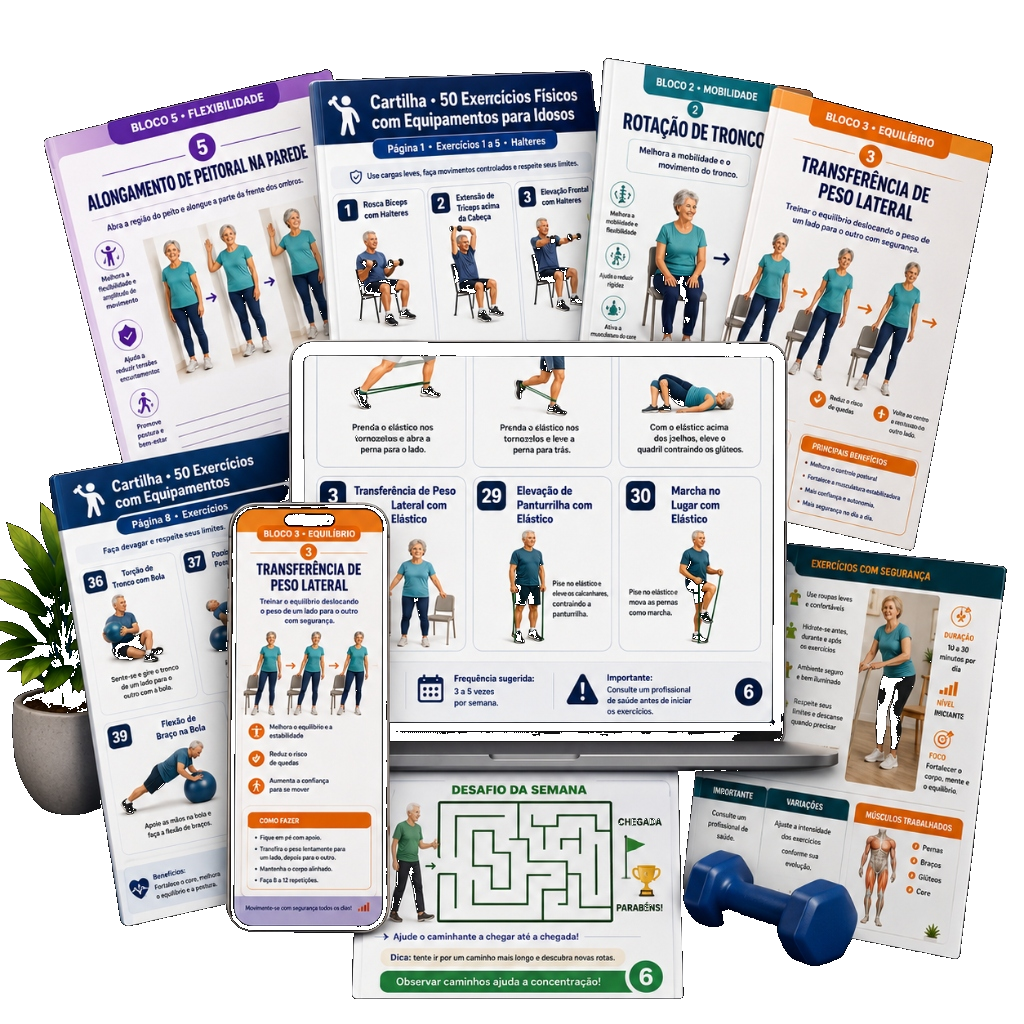
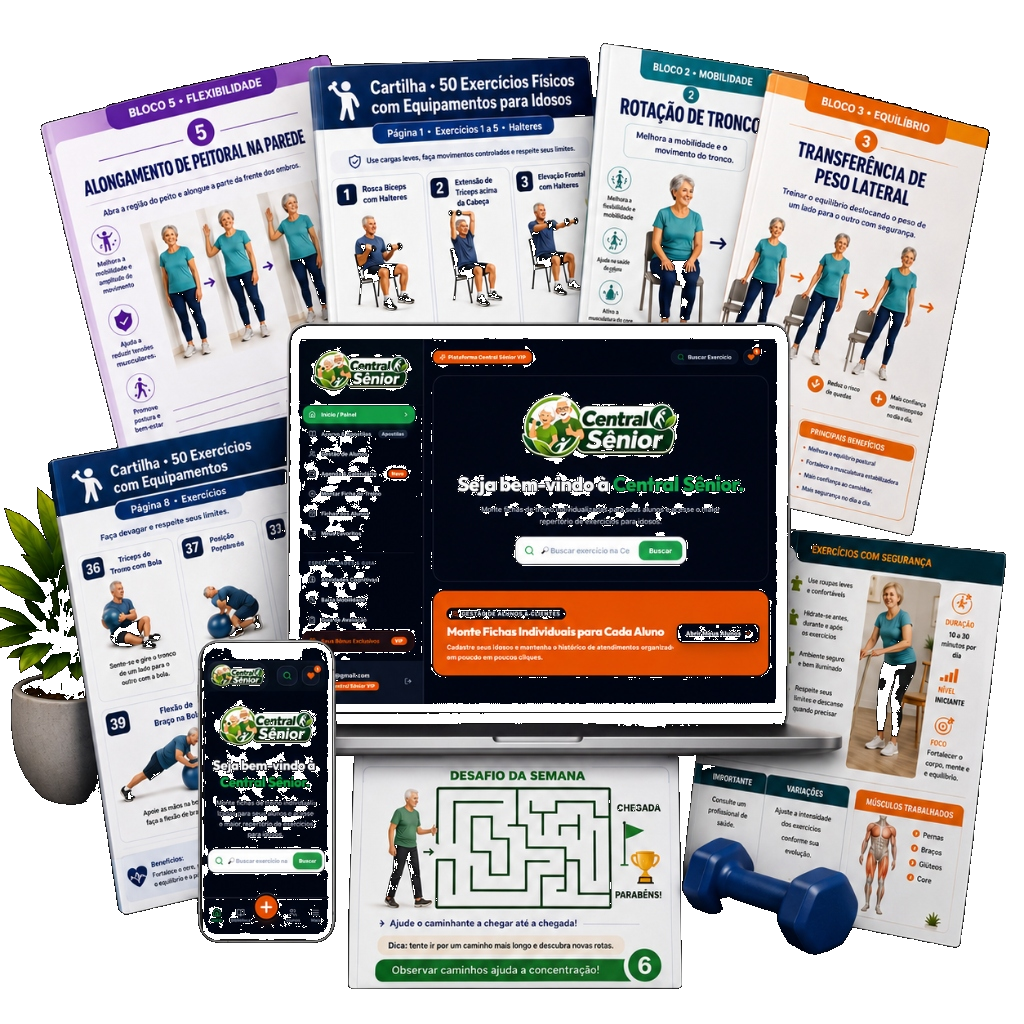
Update desktop left menu header bar and replace Hero and Pricing mockups with new transparent composite image

diff --git a/src/components/HeaderBar.jsx b/src/components/HeaderBar.jsx
@@ -1,4 +1,5 @@
 import React from 'react';
+import { ShoppingCart } from 'lucide-react';
 
 export default function HeaderBar() {
   const today = new Date();
@@ -7,9 +8,64 @@ export default function HeaderBar() {
   const year = today.getFullYear();
   const formattedDate = `${day}/${month}/${year}`;
 
+  const scrollToPricing = (e) => {
+    e.preventDefault();
+    const element = document.getElementById('pricing-cards') || document.getElementById('pricing');
+    if (element) {
+      element.scrollIntoView({ behavior: 'smooth', block: 'center' });
+    }
+  };
+
   return (
-    <div className="bg-red-600 text-white py-2.5 px-4 text-center font-extrabold text-xs sm:text-sm tracking-wide uppercase shadow-md relative z-40 flex items-center justify-center gap-2">
-      <span>Oferta Válida Somente Hoje {formattedDate}</span>
-    </div>
+    <header className="sticky top-0 z-50 bg-white/95 backdrop-blur-md border-b border-slate-200/80 shadow-xs">
+      {/* Top Red Urgency Notification */}
+      <div className="bg-red-600 text-white py-1.5 px-4 text-center font-extrabold text-xs sm:text-sm tracking-wide uppercase shadow-xs">
+        <span>Oferta Válida Somente Hoje {formattedDate}</span>
+      </div>
+
+      {/* Main Navigation Bar */}
+      <div className="max-w-7xl mx-auto px-4 sm:px-6 lg:px-8 h-16 sm:h-20 flex items-center justify-between">
+        
+        {/* Left Side: Desktop Menu Esquerdo (Logo + Status Badge) */}
+        <div className="flex items-center gap-3">
+          <a href="#" className="flex items-center gap-2 group">
+            <img
+              src="/assets/hero-logo-new.png"
+              alt="Central Sênior Logo"
+              className="h-10 sm:h-12 w-auto object-contain drop-shadow-xs group-hover:scale-105 transition-transform duration-300"
+            />
+          </a>
+          <span className="hidden lg:inline-flex items-center gap-1.5 px-3 py-1 rounded-full bg-green-50 border border-green-200 text-green-800 text-xs font-bold">
+            <span className="w-2 h-2 rounded-full bg-green-500 animate-ping"></span>
+            Acesso Online Liberado
+          </span>
+        </div>
+
+        {/* Right Side: Navigation Links & CTA Button */}
+        <div className="flex items-center gap-4 sm:gap-6">
+          <div className="hidden md:flex items-center gap-6 text-xs sm:text-sm font-bold text-slate-700">
+            <a href="#pricing" onClick={scrollToPricing} className="hover:text-green-600 transition-colors">
+              Exercícios
+            </a>
+            <a href="#pricing" onClick={scrollToPricing} className="hover:text-green-600 transition-colors">
+              Bônus
+            </a>
+            <a href="#pricing" onClick={scrollToPricing} className="hover:text-green-600 transition-colors">
+              Garantia
+            </a>
+          </div>
+
+          <a
+            href="#pricing"
+            onClick={scrollToPricing}
+            className="gradient-cta inline-flex items-center justify-center px-4 py-2.5 sm:px-6 sm:py-3 rounded-full text-white font-extrabold text-xs sm:text-sm uppercase tracking-wider shadow-md transition-all active:scale-95 cursor-pointer"
+          >
+            <ShoppingCart className="w-4 h-4 mr-1.5" />
+            <span>Garantir Acesso</span>
+          </a>
+        </div>
+
+      </div>
+    </header>
   );
 }

diff --git a/src/components/Hero.jsx b/src/components/Hero.jsx
@@ -11,15 +11,15 @@ export default function Hero() {
   };
 
   return (
-    <section className="relative px-4 pt-8 pb-16 lg:pt-12 lg:pb-24 overflow-hidden bg-gradient-to-b from-green-50/60 via-white to-slate-50">
+    <section className="relative px-4 pt-6 pb-16 lg:pt-10 lg:pb-24 overflow-hidden bg-gradient-to-b from-green-50/60 via-white to-slate-50">
       <div className="max-w-4xl mx-auto text-center relative z-10">
         
-        {/* Brand Logo (Central Sênior) */}
-        <div className="mb-3 flex justify-center">
+        {/* Brand Logo (Visible on mobile; on desktop it's in the left navbar menu) */}
+        <div className="mb-4 flex justify-center md:hidden">
           <img
             src="/assets/hero-logo-new.png"
             alt="Central Sênior Logo"
-            className="w-48 sm:w-64 h-auto object-contain drop-shadow-sm hover:scale-105 transition-transform duration-300"
+            className="w-48 h-auto object-contain drop-shadow-xs"
           />
         </div>
 
@@ -71,13 +71,13 @@ export default function Hero() {
           </span>
         </div>
 
-        {/* Hero Product Mockup with GREEN Glow Shadow */}
-        <div className="relative max-w-2xl mx-auto my-8">
-          <div className="absolute inset-0 bg-gradient-to-tr from-green-500/30 to-emerald-500/30 rounded-full blur-3xl -z-10 transform scale-110"></div>
+        {/* Brand New Hero Product Mockup */}
+        <div className="relative max-w-3xl mx-auto my-8">
+          <div className="absolute inset-0 bg-gradient-to-tr from-green-500/25 to-emerald-500/25 rounded-full blur-3xl -z-10 transform scale-110"></div>
           <img
             src="/assets/hero-mockup-new.png"
-            alt="Central Sênior - +2.000 Exercícios para Idosos"
-            className="w-full h-auto max-w-xl mx-auto drop-shadow-2xl hover:scale-[1.02] transition-transform duration-500"
+            alt="Kit Central Sênior +2000 Exercícios para Idosos"
+            className="w-full h-auto max-w-2xl sm:max-w-3xl mx-auto drop-shadow-2xl hover:scale-[1.02] transition-transform duration-500"
             loading="eager"
           />
         </div>

diff --git a/src/components/PricingSection.jsx b/src/components/PricingSection.jsx
@@ -102,12 +102,12 @@ export default function PricingSection({ onBasicClick }) {
               </p>
 
               {/* Hero Mockup Image Above Price */}
-              <div className="relative my-3 max-w-xs mx-auto">
+              <div className="relative my-4 max-w-sm mx-auto">
                 <div className="absolute inset-0 bg-gradient-to-tr from-green-500/20 to-emerald-500/20 rounded-full blur-2xl -z-10"></div>
                 <img
                   src="/assets/hero-mockup-new.png"
                   alt="Mockup Central Sênior Completa"
-                  className="w-full h-auto max-h-44 object-contain drop-shadow-xl mx-auto"
+                  className="w-full h-auto max-h-52 sm:max-h-60 object-contain drop-shadow-xl mx-auto hover:scale-105 transition-transform duration-300"
                 />
               </div>
 
